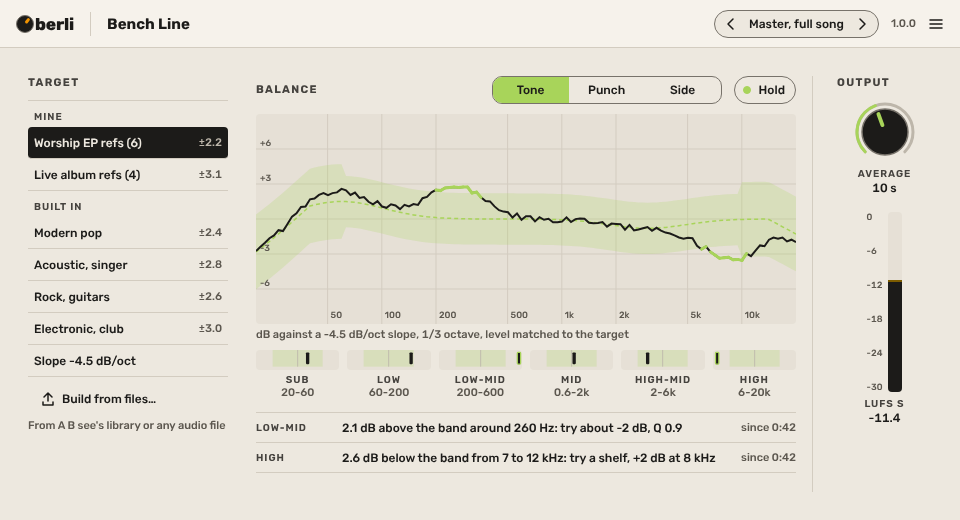
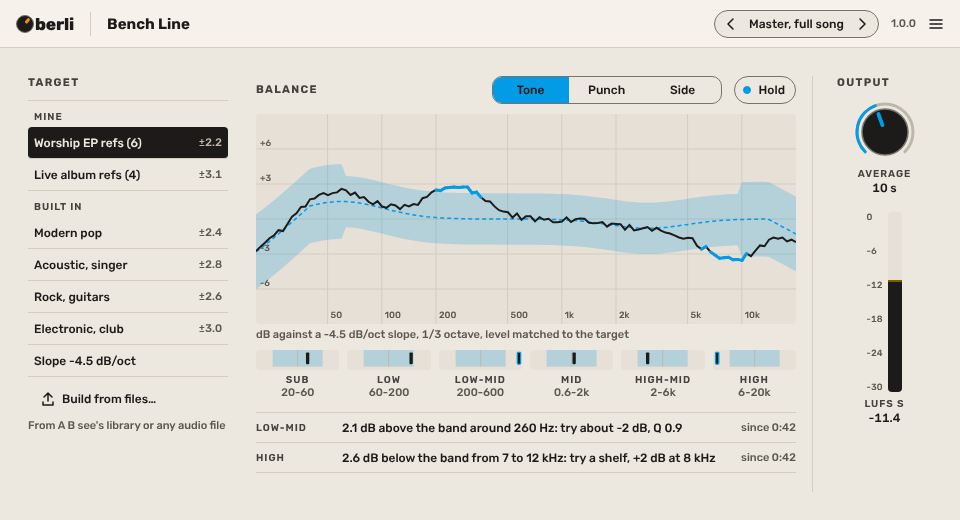
Category accent: peacock (analysis and monitoring)
Oberli Audio moves from one accent per plugin to one accent per category
(decided 2026-11-01): mango brand, tangerine instruments, banana creative
effects, sage mix tools, peacock analysis and monitoring. CLAUDE.md and
the sketch frames updated; the registry and brand sheet follow in
bob-skills.

Claude-Session: https://claude.ai/code/session_01L1he38gxGMRoz4WAYr3LiS

diff --git a/docs/sketch.md b/docs/sketch.md
@@ -1,6 +1,6 @@
 # Bench Line - target-curve tonal balance (Tier S sketch)
 
-Tier S, gate G0-G2 sketch. Oberli Audio effect (analyser, pass-through), Bone theme, accent lime #A8D45A (rose rejected 2026-11-01; jade: A B see, iris: Less S, saffron: Align, ember: Clean Up, coral: Sunday Organ, mango: Horizon Pad; check the Design System artifact). Static frame: `bench-line@1x.png` (960 x 520 at 100 %), `bench-line@2x.png` for Retina viewing. Sound side: sound-design-bob is needed for the band analysis, the target statistics and the suggestion rules; the audio path is a wire.
+Tier S, gate G0-G2 sketch. Oberli Audio effect (analyser, pass-through), Bone theme, accent Peacock #039BE5 (analysis and monitoring, category scheme confirmed 2026-11-01). Static frame: `bench-line@1x.png` (960 x 520 at 100 %), `bench-line@2x.png` for Retina viewing. Sound side: sound-design-bob is needed for the band analysis, the target statistics and the suggestion rules; the audio path is a wire.
 
 ## 1. G0 brief
 
@@ -31,7 +31,7 @@ Tier S, gate G0-G2 sketch. Oberli Audio effect (analyser, pass-through), Bone th
 
 1. **Window** 960 x 520 at 100 %, Bone, compact; one display well, the target list on the left like A B see's reference list, so the two plugins feel like one family of tools.
 2. **Hero** is what the ear cannot judge: the mix curve inside the target's tolerance band, with the parts outside the band drawn in the accent, the six region bars below (a mark inside or outside a band, Tonal Balance Control's best idea, kept), and the suggestion lines in words.
-3. **Accent** lime on the set and active only: the tolerance band and target line, the out-of-band curve segments, the outline of out-of-band region marks, the selected View segment and lit LEDs, the knob arc. The mix curve and the meter are ink.
+3. **Accent** Peacock on the set and active only: the tolerance band and target line, the out-of-band curve segments, the outline of out-of-band region marks, the selected View segment and lit LEDs, the knob arc. The mix curve and the meter are ink.
 4. **Sections** from the table's groups: Target (the list), Balance (View, display, regions, suggestions), Output (Average 64 px and a LUFS S meter; no Mix, it is a wire, the A B see line for the brand sheet).
 5. **States**: modified (pill dims when View or Average differ from the preset), drawer, About (charcoal page), bypass, no target (the well shows only the mix curve and the line "Choose a target or build one from your references"), building (a progress hairline in the list row, "Analysing 3 of 6"), Hold (the curve freezes, the LED lights, the readout says since when), silence (curve fades to `ink-subtle` after 2 s below -40 LUFS, regions show no mark rather than a wrong one).
 
@@ -104,7 +104,7 @@ Tooltips:
 
 ## 7. Open decisions for Björn
 - Name: Bench Line (decided 2026-11-01; benchmark plus baseline, the target line on the display). Slug `bench-line`, plugin ID `BenchLine`. The readme and About page add "compares your mix's tonal balance to your references", since the name does not say "tone".
-- Accent: lime (rose rejected 2026-11-01); rose is the last unused one.
+- Accent: Peacock #039BE5, by the category scheme (decided 2026-11-01): one accent per category, analysis and monitoring.
 - Built-in targets at all? They need provenance; the sketch ships five plus the slope, and leads with "Mine".
 - Decided 2026-11-01: Bench Line and A B see share one reference folder (`Oberli Audio/References/`), each file's analysis cached once and read by both.
 

diff --git a/CLAUDE.md b/CLAUDE.md
@@ -6,7 +6,7 @@ Guidance for Claude Code in this repository.
 
 Bench Line (Oberli Audio), an effect plugin (VST3; the formats ship.toml lists), built with
 JUCE pinned by commit (CMakeLists.txt) and started from the family template
-(Oberli-Audio/plugin-template). Theme bone, accent lime (#A8D45A), plugin code
+(Oberli-Audio/plugin-template). Theme bone, accent peacock (#039BE5; category accent for analysis and monitoring, decided 2026-11-01, registry update pending in bob-skills), plugin code
 `Bnln`, bundle id `com.oberliaudio.benchline`: all from the family registry (ship-bob
 `registry/plugins.toml`), never changed after the first release.
 
